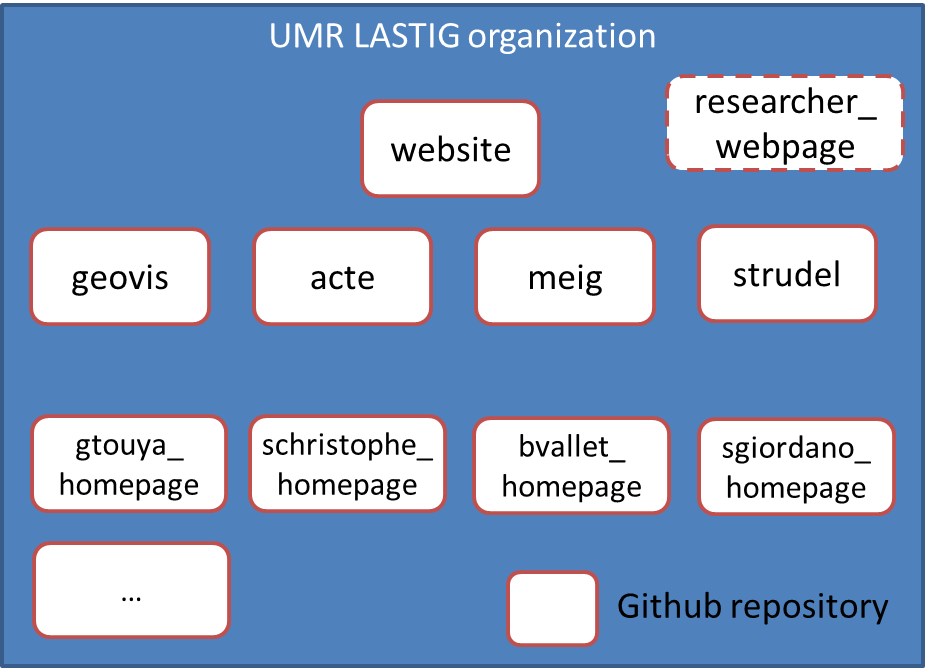
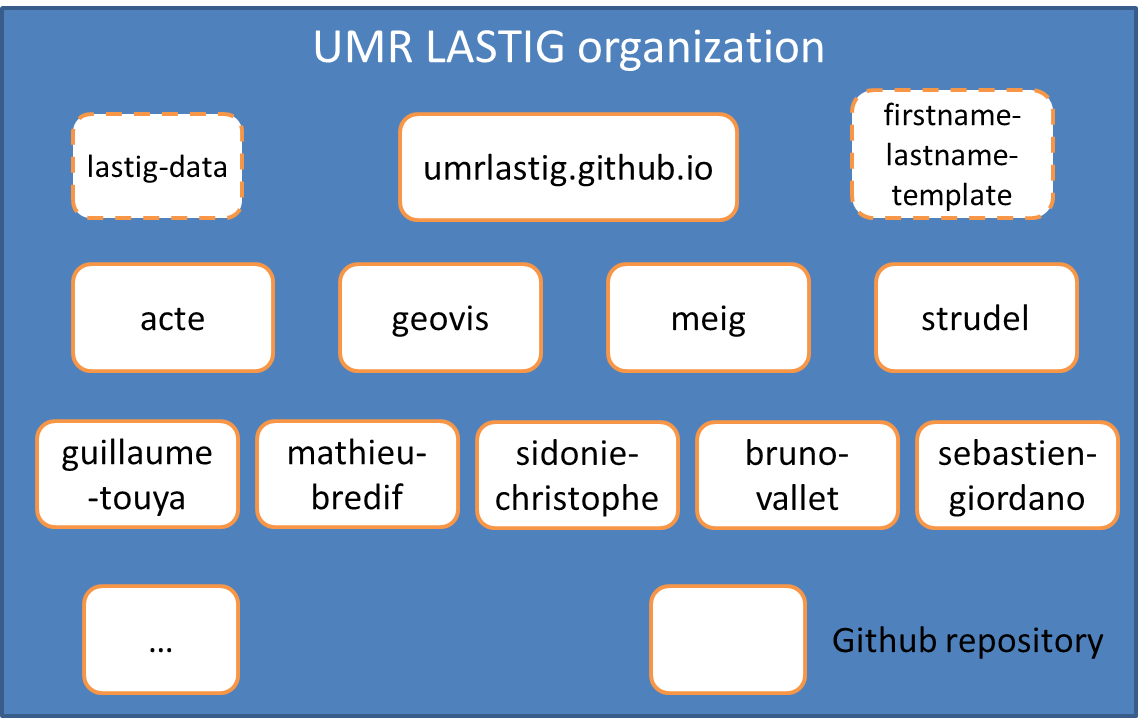
update the tutorial with the new names of the repositories

diff --git a/README.md b/README.md
@@ -1,15 +1,15 @@
-# Readme for researcher_homepage
+# Readme for firstname-lastname-template
 
 # How to use this template to create your homepage
 This repository contains a template for the homepage of the LASTIG researchers. You can find below a tutorial to create your homepage using this template.
 
 ## Create a Github account and get invited in UMR LASTIG organization
 The first step is to create an account on Github and to become a member of the [UMR LASTIG organization on Github](https://github.com/umrlastig/).
-The website architecture is described in the image below. Github repositories are contained in the [UMR LASTIG organization](https://github.com/umrlastig/). There is one repository for the [homepage of the lab](https://github.com/umrlastig/website), one repository for the homepage of each of the four research teams (e.g. [GEOVIS team repository](https://github.com/umrlastig/geovis)), and one repository for each member of the LASTIG to host his/her homepage (e.g. [Guillaume Touya's homepage repository](https://github.com/umrlastig/gtouya_homepage)). The architecture of the website was designed this way for a simple management of administration rights: as each researcher creates his/her own repository to host his/her homepage, each researcher is the administrator of the homepage, and has the responsibility to keep it up-to-date.
+The website architecture is described in the image below. Github repositories are contained in the [UMR LASTIG organization](https://github.com/umrlastig/). There is one repository for the [homepage of the lab](https://github.com/umrlastig/umrlastig.github.io), one repository for the homepage of each of the four research teams (e.g. [GEOVIS team repository](https://github.com/umrlastig/geovis)), and one repository for each member of the LASTIG to host his/her homepage (e.g. [Guillaume Touya's homepage repository](https://github.com/umrlastig/guillaume-touya)). The architecture of the website was designed this way for a simple management of administration rights: as each researcher creates his/her own repository to host his/her homepage, each researcher is the administrator of the homepage, and has the responsibility to keep it up-to-date.
 
 ![LASTIG website architecture](img/website_architecture.png)
 
-A template to build a homepage is provided in the [researcher_homepage repository](https://github.com/umrlastig/researcher_homepage). The following sections of this tutorial explain how to use this template.
+A template to build a homepage is provided in the [firstname-lastname-template repository](https://github.com/umrlastig/firstname-lastname-template). The following sections of this tutorial explain how to use this template.
 
 To get invited in this LASTIG organization, please contact one of the administrators of the organization (for instance one person among Guillaume Touya, Imran Lokhat, Sidonie Christophe, Clément Mallet, Bruno Vallet, Arnaud Le Guilcher, Mathieu Brédif, Marie-Dominique Van Damme) with the login of your Github account.
 
@@ -69,7 +69,7 @@ From now on, most of the work to create your homepage will be done from your des
 
 ## Copy the template into your repository
 
-Arrived here, you have the files of the repository branch gh-pages in a folder called "your_repo_name" (e.g. "qttruong_homepage" in the tutorial images). You can check the folder on your computer, it should contain two files (LICENSE, and README.md). Now we are going to copy the template homepage into this folder.
+Arrived here, you have the files of the repository branch gh-pages in a folder called "your_repo_name" (following the template firstname-lastname, which is not the case in the image). You can check the folder on your computer, it should contain two files (LICENSE, and README.md). Now we are going to copy the template homepage into this folder.
 
 The easiest way to do this is the following:
 * Go to the [template repository](https://github.com/umrlastig/researcher_homepage/tree/gh-pages).
